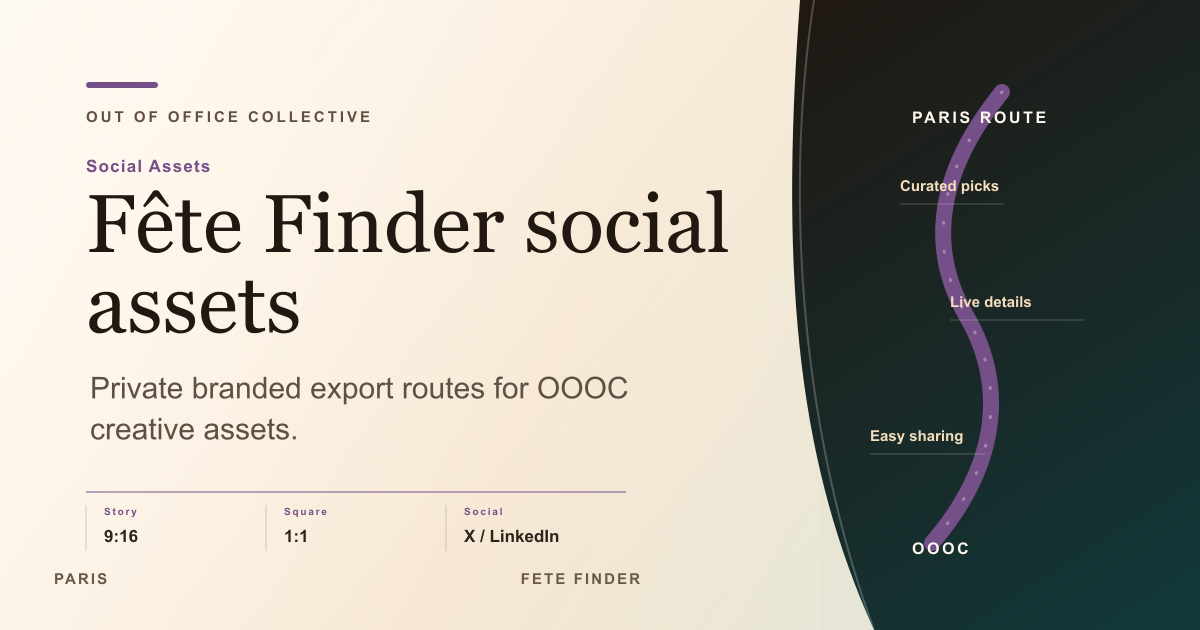
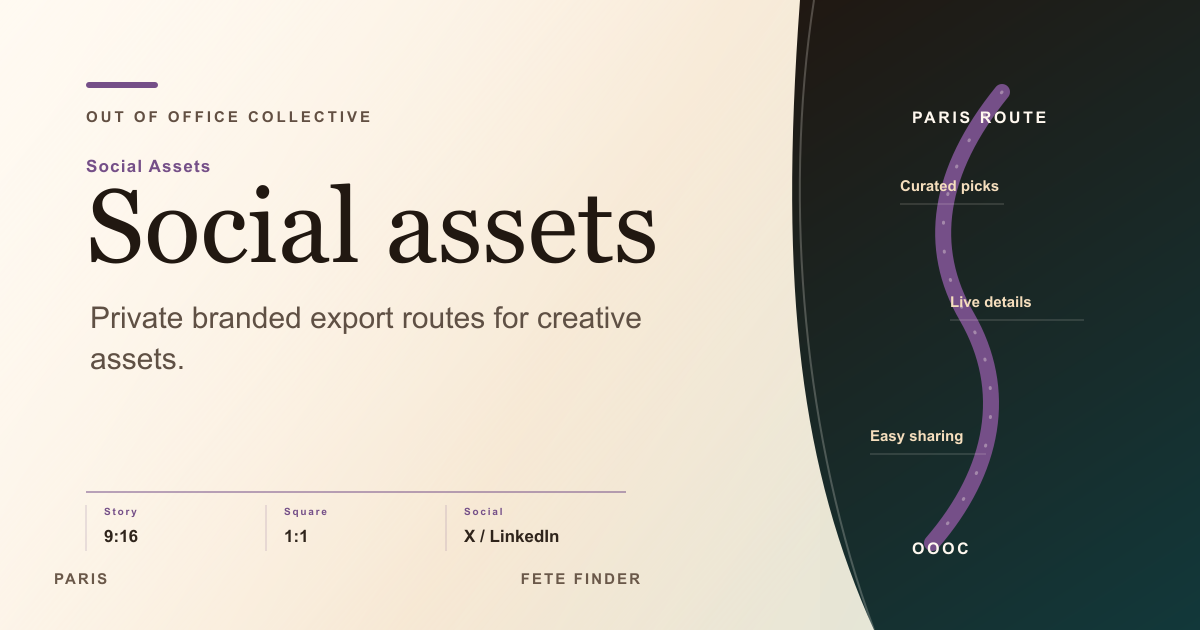
fix/simplify-static-og-titles

Changed region(s): [[0.0617, 0.2714, 0.6167, 0.4222], [0.0617, 0.4524, 0.555, 0.6333], [0.0617, 0.6635, 0.2467, 0.6937]]

diff --git a/app/api/og/route.tsx b/app/api/og/route.tsx
@@ -160,7 +160,7 @@ const STATIC_PRESET_CONTENT: Record<
 	},
 	"how-it-works": {
 		variant: "default",
-		title: "How Fête Finder Works",
+		title: "How It Works",
 		subtitle:
 			"Plan your Paris music weekend with curated picks, filters and community tips",
 	},
@@ -177,7 +177,7 @@ const STATIC_PRESET_CONTENT: Record<
 	"feature-event": {
 		variant: "default",
 		title: "Partner With OOOC",
-		subtitle: "Spotlight and promoted placements in Fête Finder",
+		subtitle: "Spotlight and promoted placements for Fête de la Musique",
 	},
 	"partner-success": {
 		variant: "default",
@@ -191,8 +191,8 @@ const STATIC_PRESET_CONTENT: Record<
 	},
 	"social-assets": {
 		variant: "default",
-		title: "Fête Finder Social Assets",
-		subtitle: "Private branded export routes for Out Of Office Collective",
+		title: "Social Assets",
+		subtitle: "Private branded export routes for creative assets",
 	},
 };
 
